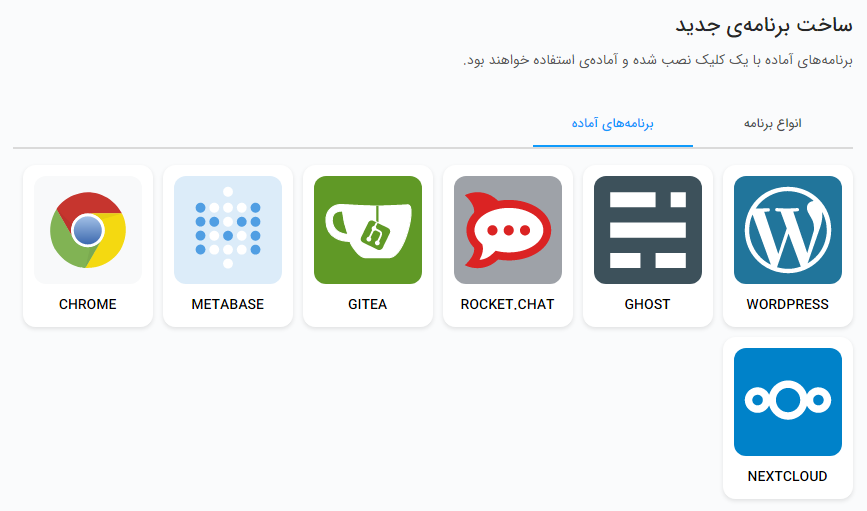
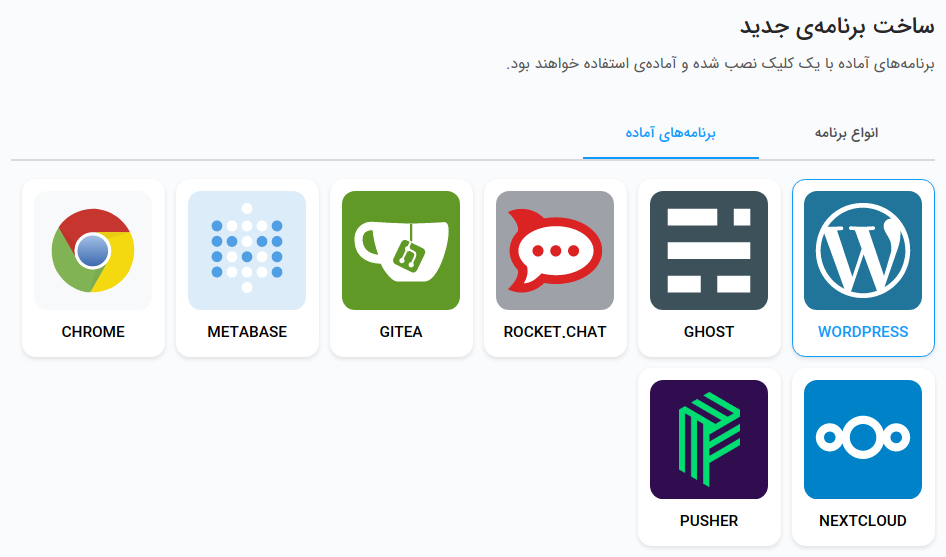
improve docs (#72)
* add pusher to one-click app document

* improve wordpress documents

* update one-click-apps image

* fix title

* improve domain documents

diff --git a/pages/app-deploy/netcore/domain.js b/pages/app-deploy/netcore/domain.js
@@ -25,32 +25,14 @@ export default () => (
 
     <h3>اتصال دامنه به برنامه</h3>
     <p>
-      لیارا به صورت رایگان یک زیردامنه به همراه https برای شما ایجاد کرده است که
-      از طریق بخش برنامهها میتوانید لینک آنرا مشاهده کنید. این دامنه برای تست
-      و بررسی برنامه و نشان دادن برنامه به دیگران و کارفرمایان کار را راحتتر
-      کرده است.
+      لیارا یک زیردامنهی رایگان با پشتیبانی از SSL به هر برنامهی ایجاد شده اختصاص میدهد که شما میتوانید این آدرس را در بخش اطلاعات کلی هر برنامه مشاهده کنید و بهکمک این دامنه، تست و بررسی برنامه برای شما سادهتر خواهد شد. همچنین این امکان برای شما وجود خواهد داشت که آدرس برنامه را برای دوستان و کارفرمایان خود ارسال کنید.
     </p>
     <ZoomableImage
       src="/static/netcore-default-domain.png"
       alt="دامنه پیشفرض"
     />
     <p>
-      اما در اکثر موارد نیاز دارید که دامنه اختصاصی خود را به برنامه متصل کنید.
-      برای اتصال یک دامنه به لیارا نیازمند پیکربندی DNS های دامنه به سمت زیرساخت
-      لیارا هستید. به همین خاطر در صورتی که قصد اضافه کردن دامنه اختصاصی دارید،
-      کافیست مستندات{" "}
-      <a href="/domains/management" target="_blank">
-        دامنهها
-      </a>{" "}
-      را مطالعه کنید. البته توصیه ما ایناست که تمام بخشهای برنامه خود را با
-      موفقیت روی لیارا مستقر کنید و سپس به کارهای مربوط به اتصال دامنه
-      بپردازید.
-    </p>
-
-    <p>
-      شما باید تا الان توانسته باشید برنامهیتان را با موفقیت در لیارا مستقر
-      کرده باشید. اما پلتفرم ASP.Net Core نکات و توضیحات بیشتری نیز دارد که در
-      بخش بعدی یعنی <b>توضیحات و نکات تکمیلی</b> به آنها پرداختهایم.
+      اما برای اتصال دامنهی اختصاصی به برنامه باید طبق مستندات <Link href="/domains/management#add-domain">اضافهکردن دامنه</Link> عمل کنید. البته پلتفرم Asp.Net Core نکات و توضیحات بیشتری دارد که در بخش بعدی یعنی <b>توضیحات و نکات تکمیلی</b> به آنها پرداختهایم.
     </p>
 
     <Link href="/app-deploy/netcore/tips">متوجه شدم، برو گام بعدی!</Link>

diff --git a/pages/app-deploy/laravel/domain.js b/pages/app-deploy/laravel/domain.js
@@ -27,31 +27,14 @@ export default () => (
 
     <h3>اتصال دامنه به برنامه</h3>
     <p>
-      لیارا به صورت رایگان یک زیردامنه به همراه https برای شما ایجاد کرده است که
-      از طریق بخش برنامهها میتوانید لینک آنرا مشاهده کنید. این دامنه برای تست
-      و بررسی برنامه و نشان دادن برنامه به دیگران و کارفرمایان کار را راحتتر
-      کرده است.
+      لیارا یک زیردامنهی رایگان با پشتیبانی از SSL به هر برنامهی ایجاد شده اختصاص میدهد که شما میتوانید این آدرس را در بخش اطلاعات کلی هر برنامه مشاهده کنید و بهکمک این دامنه، تست و بررسی برنامه برای شما سادهتر خواهد شد. همچنین این امکان برای شما وجود خواهد داشت که آدرس برنامه را برای دوستان و کارفرمایان خود ارسال کنید.
     </p>
     <ZoomableImage
       src="/static/laravel-defualt-domain.png"
       alt="دامنه پیشفرض"
     />
     <p>
-      اما در اکثر موارد نیاز دارید که دامنه اختصاصی خود را به برنامه متصل کنید.
-      برای اتصال یک دامنه به لیارا نیازمند پیکربندی DNS های دامنه به سمت زیرساخت
-      لیارا هستید. به همین خاطر در صورتی که قصد اضافه کردن دامنه اختصاصی دارید،
-      کافیست مستندات{" "}
-      <a href="/domains/management" target="_blank">
-        دامنهها
-      </a>{" "}
-      را مطالعه کنید. البته توصیه ما ایناست که تمام بخشهای برنامه خود را با
-      موفقیت روی لیارا مستقر کنید و سپس به کارهای مربوط به اتصال دامنه
-      بپردازید.
-    </p>
-    <p>
-      شما باید تا الان توانسته باشید برنامهیتان را با موفقیت در لیارا مستقر
-      کرده باشید. اما پلتفرم Laravel نکات و توضیحات بیشتری نیز دارد که در بخش
-      بعدی یعنی <b>توضیحات و نکات تکمیلی</b> به آنها پرداختهایم.
+      اما برای اتصال دامنهی اختصاصی به برنامه باید طبق مستندات <Link href="/domains/management#add-domain">اضافهکردن دامنه</Link> عمل کنید. البته پلتفرم Laravel نکات و توضیحات بیشتری دارد که در بخش بعدی یعنی <b>توضیحات و نکات تکمیلی</b> به آنها پرداختهایم.
     </p>
 
     <Link href="/app-deploy/laravel/tips">متوجه شدم، برو گام بعدی!</Link>

diff --git a/pages/app-deploy/django/domain.js b/pages/app-deploy/django/domain.js
@@ -23,32 +23,14 @@ export default () => (
 
     <h3>اتصال دامنه به برنامه</h3>
     <p>
-      لیارا به صورت رایگان یک زیردامنه به همراه https برای شما ایجاد کرده است که
-      از طریق بخش برنامهها میتوانید لینک آنرا مشاهده کنید. این دامنه برای تست
-      و بررسی برنامه و نشان دادن برنامه به دیگران و کارفرمایان کار را راحتتر
-      کرده است.
+      لیارا یک زیردامنهی رایگان با پشتیبانی از SSL به هر برنامهی ایجاد شده اختصاص میدهد که شما میتوانید این آدرس را در بخش اطلاعات کلی هر برنامه مشاهده کنید و بهکمک این دامنه، تست و بررسی برنامه برای شما سادهتر خواهد شد. همچنین این امکان برای شما وجود خواهد داشت که آدرس برنامه را برای دوستان و کارفرمایان خود ارسال کنید.
     </p>
     <ZoomableImage
       src="/static/django-default-domain.png"
       alt="دامنه پیشفرض"
     />
     <p>
-      اما در اکثر موارد نیاز دارید که دامنه اختصاصی خود را به برنامه متصل کنید.
-      برای اتصال یک دامنه به لیارا نیازمند پیکربندی DNS های دامنه به سمت زیرساخت
-      لیارا هستید. به همین خاطر در صورتی که قصد اضافه کردن دامنه اختصاصی دارید،
-      کافیست مستندات{" "}
-      <a href="/domains/management" target="_blank">
-        دامنهها
-      </a>{" "}
-      را مطالعه کنید. البته توصیه ما ایناست که تمام بخشهای برنامه خود را با
-      موفقیت روی لیارا مستقر کنید و سپس به کارهای مربوط به اتصال دامنه
-      بپردازید.
-    </p>
-
-    <p>
-      شما باید تا الان توانسته باشید برنامهیتان را با موفقیت در لیارا مستقر
-      کرده باشید. اما پلتفرم Django نکات و توضیحات بیشتری نیز دارد که در بخش
-      بعدی یعنی <b>توضیحات و نکات تکمیلی</b> به آنها پرداختهایم.
+      اما برای اتصال دامنهی اختصاصی به برنامه باید طبق مستندات <Link href="/domains/management#add-domain">اضافهکردن دامنه</Link> عمل کنید. البته پلتفرم Django نکات و توضیحات بیشتری دارد که در بخش بعدی یعنی <b>توضیحات و نکات تکمیلی</b> به آنها پرداختهایم.
     </p>
 
     <Link href="/app-deploy/django/tips">متوجه شدم، برو گام بعدی!</Link>

diff --git a/pages/app-deploy/angular/domain.js b/pages/app-deploy/angular/domain.js
@@ -25,28 +25,11 @@ export default () => (
 
     <h3>اتصال دامنه به برنامه</h3>
     <p>
-      لیارا به صورت رایگان یک زیردامنه به همراه https برای شما ایجاد کرده است که
-      از طریق بخش برنامهها میتوانید لینک آنرا مشاهده کنید. این دامنه برای تست
-      و بررسی برنامه و نشان دادن برنامه به دیگران و کارفرمایان کار را راحتتر
-      کرده است.
+      لیارا یک زیردامنهی رایگان با پشتیبانی از SSL به هر برنامهی ایجاد شده اختصاص میدهد که شما میتوانید این آدرس را در بخش اطلاعات کلی هر برنامه مشاهده کنید و بهکمک این دامنه، تست و بررسی برنامه برای شما سادهتر خواهد شد. همچنین این امکان برای شما وجود خواهد داشت که آدرس برنامه را برای دوستان و کارفرمایان خود ارسال کنید.
     </p>
     <ZoomableImage src="/static/angular-default-domain.png" />
     <p>
-      اما در اکثر موارد نیاز دارید که دامنه اختصاصی خود را به برنامه متصل کنید.
-      برای اتصال یک دامنه به لیارا نیازمند پیکربندی DNS های دامنه به سمت زیرساخت
-      لیارا هستید. به همین خاطر در صورتی که قصد اضافه کردن دامنه اختصاصی دارید،
-      کافیست مستندات{" "}
-      <a href="/domains/management" target="_blank">
-        دامنهها
-      </a>{" "}
-      را مطالعه کنید. البته توصیه ما ایناست که تمام بخشهای برنامه خود را با
-      موفقیت روی لیارا مستقر کنید و سپس به کارهای مربوط به اتصال دامنه
-      بپردازید.
-    </p>
-    <p>
-      شما باید تا الان توانسته باشید برنامهیتان را با موفقیت در لیارا مستقر
-      کرده باشید. اما پلتفرم Angular نکات و توضیحات بیشتری نیز دارد که در بخش
-      بعدی یعنی <b>توضیحات و نکات تکمیلی</b> به آنها پرداختهایم.
+      اما برای اتصال دامنهی اختصاصی به برنامه باید طبق مستندات <Link href="/domains/management#add-domain">اضافهکردن دامنه</Link> عمل کنید. البته پلتفرم Angular نکات و توضیحات بیشتری دارد که در بخش بعدی یعنی <b>توضیحات و نکات تکمیلی</b> به آنها پرداختهایم.
     </p>
 
     <Link href="/app-deploy/angular/tips">متوجه شدم، برو گام بعدی!</Link>

diff --git a/pages/app-deploy/nodejs/domain.js b/pages/app-deploy/nodejs/domain.js
@@ -25,28 +25,11 @@ export default () => (
 
     <h3>اتصال دامنه به برنامه</h3>
     <p>
-      لیارا به صورت رایگان یک زیردامنه به همراه https برای شما ایجاد کرده است که
-      از طریق بخش برنامهها میتوانید لینک آن را مشاهده کنید. این دامنه برای
-      تست و بررسی برنامه و نشان دادن برنامه به دیگران و کارفرمایان کار را
-      راحتتر کرده است.
+      لیارا یک زیردامنهی رایگان با پشتیبانی از SSL به هر برنامهی ایجاد شده اختصاص میدهد که شما میتوانید این آدرس را در بخش اطلاعات کلی هر برنامه مشاهده کنید و بهکمک این دامنه، تست و بررسی برنامه برای شما سادهتر خواهد شد. همچنین این امکان برای شما وجود خواهد داشت که آدرس برنامه را برای دوستان و کارفرمایان خود ارسال کنید.
     </p>
     <ZoomableImage src="/static/nodejs-default-domain.png" />
     <p>
-      اما در اکثر موارد نیاز دارید که دامنه اختصاصی خود را به برنامه متصل کنید.
-      برای اتصال یک دامنه به لیارا نیازمند پیکربندی DNS های دامنه به سمت زیرساخت
-      لیارا هستید. به همین خاطر در صورتی که قصد اضافه کردن دامنه اختصاصی دارید،
-      کافیست مستندات{" "}
-      <a href="/domains/management" target="_blank">
-        دامنهها
-      </a>{" "}
-      را مطالعه کنید. البته توصیه ما ایناست که تمام بخشهای برنامه خود را با
-      موفقیت روی لیارا مستقر کنید و سپس به کارهای مربوط به اتصال دامنه
-      بپردازید.
-    </p>
-    <p>
-      شما باید تا الان توانسته باشید برنامهیتان را با موفقیت در لیارا مستقر
-      کرده باشید. اما پلتفرم NodeJS نکات و توضیحات بیشتری نیز دارد که در بخش
-      بعدی یعنی <b>توضیحات و نکات تکمیلی</b> به آنها پرداختهایم.
+      اما برای اتصال دامنهی اختصاصی به برنامه باید طبق مستندات <Link href="/domains/management#add-domain">اضافهکردن دامنه</Link> عمل کنید. البته پلتفرم NodeJS نکات و توضیحات بیشتری دارد که در بخش بعدی یعنی <b>توضیحات و نکات تکمیلی</b> به آنها پرداختهایم.
     </p>
 
     <Link href="/app-deploy/nodejs/tips">متوجه شدم، برو گام بعدی!</Link>

diff --git a/pages/app-deploy/static/domain.js b/pages/app-deploy/static/domain.js
@@ -23,28 +23,11 @@ export default () => (
 
     <h3>اتصال دامنه به برنامه</h3>
     <p>
-      لیارا به صورت رایگان یک زیردامنه به همراه https برای شما ایجاد کرده است که
-      از طریق بخش برنامهها میتوانید لینک آنرا مشاهده کنید. این دامنه برای تست
-      و بررسی برنامه و نشان دادن برنامه به دیگران و کارفرمایان کار را راحتتر
-      کرده است.
+      لیارا یک زیردامنهی رایگان با پشتیبانی از SSL به هر برنامهی ایجاد شده اختصاص میدهد که شما میتوانید این آدرس را در بخش اطلاعات کلی هر برنامه مشاهده کنید و بهکمک این دامنه، تست و بررسی برنامه برای شما سادهتر خواهد شد. همچنین این امکان برای شما وجود خواهد داشت که آدرس برنامه را برای دوستان و کارفرمایان خود ارسال کنید.
     </p>
     <ZoomableImage src="/static/static-defualt-domain.png" />
     <p>
-      اما در اکثر موارد نیاز دارید که دامنه اختصاصی خود را به برنامه متصل کنید.
-      برای اتصال یک دامنه به لیارا نیازمند پیکربندی DNS های دامنه به سمت زیرساخت
-      لیارا هستید. به همین خاطر در صورتی که قصد اضافه کردن دامنه اختصاصی دارید،
-      کافیست مستندات{" "}
-      <a href="/domains/management" target="_blank">
-        دامنهها
-      </a>{" "}
-      را مطالعه کنید. البته توصیه ما ایناست که تمام بخشهای برنامه خود را با
-      موفقیت روی لیارا مستقر کنید و سپس به کارهای مربوط به اتصال دامنه
-      بپردازید.
-    </p>
-    <p>
-      شما باید تا الان توانسته باشید برنامهیتان را با موفقیت در لیارا مستقر
-      کرده باشید. اما پلتفرم Static نکات و توضیحات بیشتری نیز دارد که در بخش
-      بعدی یعنی <b>توضیحات و نکات تکمیلی</b> به آنها پرداختهایم.
+      اما برای اتصال دامنهی اختصاصی به برنامه باید طبق مستندات <Link href="/domains/management#add-domain">اضافهکردن دامنه</Link> عمل کنید. البته پلتفرم Static نکات و توضیحات بیشتری دارد که در بخش بعدی یعنی <b>توضیحات و نکات تکمیلی</b> به آنها پرداختهایم.
     </p>
 
     <Link href="/app-deploy/static/tips">متوجه شدم، برو گام بعدی!</Link>

diff --git a/pages/app-deploy/react/domain.js b/pages/app-deploy/react/domain.js
@@ -23,28 +23,11 @@ export default () => (
 
     <h3>اتصال دامنه به برنامه</h3>
     <p>
-      لیارا به صورت رایگان یک زیردامنه به همراه https برای شما ایجاد کرده است که
-      از طریق بخش برنامهها میتوانید لینک آنرا مشاهده کنید. این دامنه برای تست
-      و بررسی برنامه و نشان دادن برنامه به دیگران و کارفرمایان کار را راحتتر
-      کرده است.
+      لیارا یک زیردامنهی رایگان با پشتیبانی از SSL به هر برنامهی ایجاد شده اختصاص میدهد که شما میتوانید این آدرس را در بخش اطلاعات کلی هر برنامه مشاهده کنید و بهکمک این دامنه، تست و بررسی برنامه برای شما سادهتر خواهد شد. همچنین این امکان برای شما وجود خواهد داشت که آدرس برنامه را برای دوستان و کارفرمایان خود ارسال کنید.
     </p>
     <ZoomableImage src="/static/react-default-domain.png" />
     <p>
-      اما در اکثر موارد نیاز دارید که دامنه اختصاصی خود را به برنامه متصل کنید.
-      برای اتصال یک دامنه به لیارا نیازمند پیکربندی DNS های دامنه به سمت زیرساخت
-      لیارا هستید. به همین خاطر در صورتی که قصد اضافه کردن دامنه اختصاصی دارید،
-      کافیست مستندات{" "}
-      <a href="/domains/management" target="_blank">
-        دامنهها
-      </a>{" "}
-      را مطالعه کنید. البته توصیه ما ایناست که تمام بخشهای برنامه خود را با
-      موفقیت روی لیارا مستقر کنید و سپس به کارهای مربوط به اتصال دامنه
-      بپردازید.
-    </p>
-    <p>
-      شما باید تا الان توانسته باشید برنامهیتان را با موفقیت در لیارا مستقر
-      کرده باشید. اما پلتفرم ReactJS نکات و توضیحات بیشتری نیز دارد که در بخش
-      بعدی یعنی <b>توضیحات و نکات تکمیلی</b> به آنها پرداختهایم.
+      اما برای اتصال دامنهی اختصاصی به برنامه باید طبق مستندات <Link href="/domains/management#add-domain">اضافهکردن دامنه</Link> عمل کنید. البته پلتفرم React نکات و توضیحات بیشتری دارد که در بخش بعدی یعنی <b>توضیحات و نکات تکمیلی</b> به آنها پرداختهایم.
     </p>
 
     <Link href="/app-deploy/react/tips">متوجه شدم، برو گام بعدی!</Link>

diff --git a/pages/app-deploy/vue/domain.js b/pages/app-deploy/vue/domain.js
@@ -23,28 +23,11 @@ export default () => (
 
     <h3>اتصال دامنه به برنامه</h3>
     <p>
-      لیارا به صورت رایگان یک زیردامنه به همراه https برای شما ایجاد کرده است که
-      از طریق بخش برنامهها میتوانید لینک آنرا مشاهده کنید. این دامنه برای تست
-      و بررسی برنامه و نشان دادن برنامه به دیگران و کارفرمایان کار را راحتتر
-      کرده است.
+      لیارا یک زیردامنهی رایگان با پشتیبانی از SSL به هر برنامهی ایجاد شده اختصاص میدهد که شما میتوانید این آدرس را در بخش اطلاعات کلی هر برنامه مشاهده کنید و بهکمک این دامنه، تست و بررسی برنامه برای شما سادهتر خواهد شد. همچنین این امکان برای شما وجود خواهد داشت که آدرس برنامه را برای دوستان و کارفرمایان خود ارسال کنید.
     </p>
     <ZoomableImage src="/static/vue-default-domain.png" />
     <p>
-      اما در اکثر موارد نیاز دارید که دامنه اختصاصی خود را به برنامه متصل کنید.
-      برای اتصال یک دامنه به لیارا نیازمند پیکربندی DNS های دامنه به سمت زیرساخت
-      لیارا هستید. به همین خاطر در صورتی که قصد اضافه کردن دامنه اختصاصی دارید،
-      کافیست مستندات{" "}
-      <a href="/domains/management" target="_blank">
-        دامنهها
-      </a>{" "}
-      را مطالعه کنید. البته توصیه ما ایناست که تمام بخشهای برنامه خود را با
-      موفقیت روی لیارا مستقر کنید و سپس به کارهای مربوط به اتصال دامنه
-      بپردازید.
-    </p>
-    <p>
-      شما باید تا الان توانسته باشید برنامهیتان را با موفقیت در لیارا مستقر
-      کرده باشید. اما پلتفرم VueJS نکات و توضیحات بیشتری نیز دارد که در بخش بعدی
-      یعنی <b>توضیحات و نکات تکمیلی</b> به آنها پرداختهایم.
+      اما برای اتصال دامنهی اختصاصی به برنامه باید طبق مستندات <Link href="/domains/management#add-domain">اضافهکردن دامنه</Link> عمل کنید. البته پلتفرم VueJS نکات و توضیحات بیشتری دارد که در بخش بعدی یعنی <b>توضیحات و نکات تکمیلی</b> به آنها پرداختهایم.
     </p>
 
     <Link href="/app-deploy/vue/tips">متوجه شدم، برو گام بعدی!</Link>

diff --git a/pages/app-deploy/php/domain.js b/pages/app-deploy/php/domain.js
@@ -25,28 +25,11 @@ export default () => (
 
     <h3>اتصال دامنه به برنامه</h3>
     <p>
-      لیارا به صورت رایگان یک زیردامنه به همراه https برای شما ایجاد کرده است که
-      از طریق بخش برنامهها میتوانید لینک آنرا مشاهده کنید. این دامنه برای تست
-      و بررسی برنامه و نشان دادن برنامه به دیگران و کارفرمایان کار را راحتتر
-      کرده است.
+      لیارا یک زیردامنهی رایگان با پشتیبانی از SSL به هر برنامهی ایجاد شده اختصاص میدهد که شما میتوانید این آدرس را در بخش اطلاعات کلی هر برنامه مشاهده کنید و بهکمک این دامنه، تست و بررسی برنامه برای شما سادهتر خواهد شد. همچنین این امکان برای شما وجود خواهد داشت که آدرس برنامه را برای دوستان و کارفرمایان خود ارسال کنید.
     </p>
     <ZoomableImage src="/static/php-defualt-domain.png" />
     <p>
-      اما در اکثر موارد نیاز دارید که دامنه اختصاصی خود را به برنامه متصل کنید.
-      برای اتصال یک دامنه به لیارا نیازمند پیکربندی DNS های دامنه به سمت زیرساخت
-      لیارا هستید. به همین خاطر در صورتی که قصد اضافه کردن دامنه اختصاصی دارید،
-      کافیست مستندات{" "}
-      <a href="/domains/management" target="_blank">
-        دامنهها
-      </a>{" "}
-      را مطالعه کنید. البته توصیه ما ایناست که تمام بخشهای برنامه خود را با
-      موفقیت روی لیارا مستقر کنید و سپس به کارهای مربوط به اتصال دامنه
-      بپردازید.
-    </p>
-    <p>
-      شما باید تا الان توانسته باشید برنامهیتان را با موفقیت در لیارا مستقر
-      کرده باشید. اما پلتفرم PHP نکات و توضیحات بیشتری نیز دارد که در بخش بعدی
-      یعنی <b>توضیحات و نکات تکمیلی</b> به آنها پرداختهایم.
+      اما برای اتصال دامنهی اختصاصی به برنامه باید طبق مستندات <Link href="/domains/management#add-domain">اضافهکردن دامنه</Link> عمل کنید. البته پلتفرم PHP نکات و توضیحات بیشتری دارد که در بخش بعدی یعنی <b>توضیحات و نکات تکمیلی</b> به آنها پرداختهایم.
     </p>
 
     <Link href="/app-deploy/php/tips">متوجه شدم، برو گام بعدی!</Link>

diff --git a/pages/app-deploy/flask/domain.js b/pages/app-deploy/flask/domain.js
@@ -23,23 +23,11 @@ export default () => (
 
     <h3>اتصال دامنه به برنامه</h3>
     <p>
-      لیارا به صورت رایگان یک زیردامنه به همراه https برای شما ایجاد کرده است که
-      از طریق بخش برنامهها میتوانید لینک آنرا مشاهده کنید. این دامنه برای تست
-      و بررسی برنامه و نشان دادن برنامه به دیگران و کارفرمایان کار را راحتتر
-      کرده است.
+      لیارا یک زیردامنهی رایگان با پشتیبانی از SSL به هر برنامهی ایجاد شده اختصاص میدهد که شما میتوانید این آدرس را در بخش اطلاعات کلی هر برنامه مشاهده کنید و بهکمک این دامنه، تست و بررسی برنامه برای شما سادهتر خواهد شد. همچنین این امکان برای شما وجود خواهد داشت که آدرس برنامه را برای دوستان و کارفرمایان خود ارسال کنید.
     </p>
     <ZoomableImage src="/static/flask-default-domain.png" alt="دامنه پیشفرض" />
     <p>
-      اما در اکثر موارد نیاز دارید که دامنه اختصاصی خود را به برنامه متصل کنید.
-      برای اتصال یک دامنه به لیارا نیازمند پیکربندی DNS های دامنه به سمت زیرساخت
-      لیارا هستید. به همین خاطر در صورتی که قصد اضافه کردن دامنه اختصاصی دارید،
-      کافیست مستندات{" "}
-      <a href="/domains/management" target="_blank">
-        دامنهها
-      </a>{" "}
-      را مطالعه کنید. البته توصیه ما ایناست که تمام بخشهای برنامه خود را با
-      موفقیت روی لیارا مستقر کنید و سپس به کارهای مربوط به اتصال دامنه
-      بپردازید.
+      اما برای اتصال دامنهی اختصاصی به برنامه باید طبق مستندات <Link href="/domains/management#add-domain">اضافهکردن دامنه</Link> عمل کنید. البته پلتفرم Flask نکات و توضیحات بیشتری دارد که در بخش بعدی یعنی <b>توضیحات و نکات تکمیلی</b> به آنها پرداختهایم.
     </p>
 
     <Link href="/app-deploy/flask/tips">متوجه شدم، برو گام بعدی!</Link>

diff --git a/pages/app-deploy/docker/domain.js b/pages/app-deploy/docker/domain.js
@@ -23,23 +23,11 @@ export default () => (
 
     <h3>اتصال دامنه به برنامه</h3>
     <p>
-      لیارا به صورت رایگان یک زیردامنه به همراه https برای شما ایجاد کرده است که
-      از طریق بخش برنامهها میتوانید لینک آن را مشاهده کنید. این دامنه برای
-      تست و بررسی برنامه و نشان دادن برنامه به دیگران و کارفرمایان کار را
-      راحتتر کرده است.
+      لیارا یک زیردامنهی رایگان با پشتیبانی از SSL به هر برنامهی ایجاد شده اختصاص میدهد که شما میتوانید این آدرس را در بخش اطلاعات کلی هر برنامه مشاهده کنید و بهکمک این دامنه، تست و بررسی برنامه برای شما سادهتر خواهد شد. همچنین این امکان برای شما وجود خواهد داشت که آدرس برنامه را برای دوستان و کارفرمایان خود ارسال کنید.
     </p>
     <ZoomableImage src="/static/docker-default-domain.png" />
     <p>
-      اما در اکثر موارد نیاز دارید که دامنه اختصاصی خود را به برنامه متصل کنید.
-      برای اتصال یک دامنه به لیارا نیازمند پیکربندی DNS های دامنه به سمت زیرساخت
-      لیارا هستید. به همین خاطر در صورتی که قصد اضافه کردن دامنه اختصاصی دارید،
-      کافیست مستندات{" "}
-      <a href="/domains/management" target="_blank">
-        دامنهها
-      </a>{" "}
-      را مطالعه کنید. البته توصیه ما ایناست که تمام بخشهای برنامه خود را با
-      موفقیت روی لیارا مستقر کنید و سپس به کارهای مربوط به اتصال دامنه
-      بپردازید.
+      اما برای اتصال دامنهی اختصاصی به برنامه باید طبق مستندات <Link href="/domains/management#add-domain">اضافهکردن دامنه</Link> عمل کنید. البته توصیه ما این است که تمام بخشهای برنامه خود را با موفقیت روی لیارا مستقر کنید و سپس به کارهای مربوط به اتصال دامنه بپردازید.
     </p>
   </Layout>
 );

diff --git a/pages/one-click-apps/wordpress/domain.js b/pages/one-click-apps/wordpress/domain.js
@@ -1,0 +1,32 @@
+import Layout from "../../../components/Layout";
+import Link from "next/link";
+import Head from "next/head";
+import ZoomableImage from "../../../components/ZoomableImage";
+
+export default () => (
+    <Layout>
+        <Head>
+            <title>مستندات اتصال دامنه به برنامههای WordPress - سرویس ابری لیارا</title>
+        </Head>
+
+        <div className="page-head">
+            <img
+                className="page-icon"
+                src="/static/platformicons/wordpress.svg"
+                alt="wordpress"
+            />
+            <div className="page-title">
+                <h1>اتصال دامنه</h1>
+                <span className="page-description">(WordPress one-click app)</span>
+            </div>
+        </div>
+
+        <p>
+            لیارا یک زیردامنهی رایگان با پشتیبانی از SSL به هر برنامهی ایجاد شده اختصاص میدهد که شما میتوانید این آدرس را در بخش اطلاعات کلی هر برنامه مشاهده کنید و بهکمک این دامنه، تست و بررسی برنامه برای شما سادهتر خواهد شد. همچنین این امکان برای شما وجود خواهد داشت که آدرس برنامه را برای دوستان و کارفرمایان خود ارسال کنید.
+        </p>
+        <ZoomableImage src="/static/wordpress-default-domain.png" />
+        <p>
+            اما در مواردی که نیاز است دامنهی اختصاصی خود را به برنامه متصل کنید باید طبق مستندات <Link href="/domains/management#add-domain">اضافهکردن دامنه</Link> عمل کرده و سپس در تنظیمات عمومی سیستم مدیریت محتوای WordPress مقادیر <b>نشانی وردپرس (URL)</b> و <b>نشانی سایت (URL)</b> را با آدرس دامنهی اختصاصی خود جایگزین کنید.
+        </p>
+    </Layout>
+);
